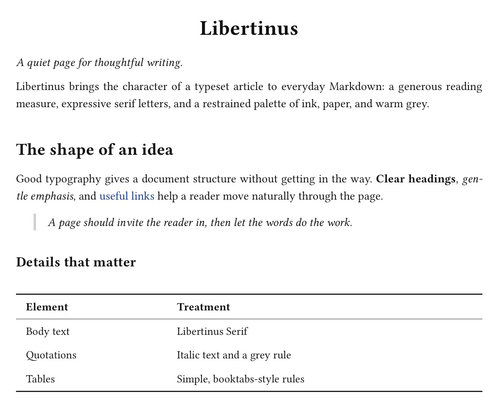
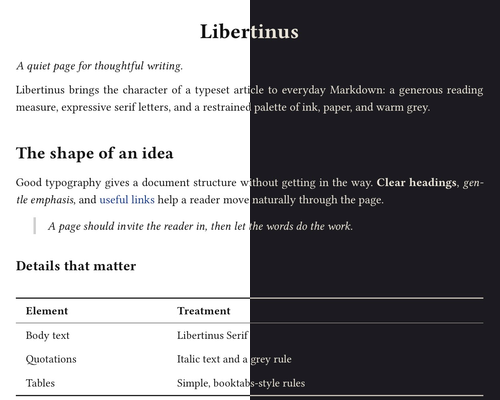
Include Libertinus Dark and Fira Code screenshots

diff --git a/_posts/theme/2026-11-06-Libertinus.md b/_posts/theme/2026-11-06-Libertinus.md
@@ -3,20 +3,20 @@ layout: theme
 title: Libertinus
 category: theme
 homepage: https://github.com/wei-yuhang/typora-theme-libertinus
-download: https://github.com/wei-yuhang/typora-theme-libertinus/releases/download/v1.0.0/libertinus.zip
+download: https://github.com/wei-yuhang/typora-theme-libertinus/releases/download/v1.1.0/libertinus.zip
 built-in: false
 author: Yuhang Wei
 author_url: https://github.com/wei-yuhang
 thumbnail: libertinus.png
-description: A light, serif theme inspired by typeset articles, with Libertinus typography, restrained quotations, and booktabs-style tables.
-tags: [light, serif, academic]
+description: A light and dark serif theme inspired by typeset articles, with Libertinus typography, restrained quotations, and booktabs-style tables.
+tags: [light, dark, serif, academic]
 typora-root-url: ../../
 typora-copy-images-to: ../../media/theme/libertinus
 ---
 
 # Libertinus
 
-Libertinus is a light theme for notes, essays, and technical writing, inspired by the appearance of a Pandoc and XeLaTeX article.
+Libertinus is a light and dark theme for notes, essays, and technical writing, inspired by the appearance of a Pandoc and XeLaTeX article.
 
 ![Libertinus typography, an italic blockquote, and a booktabs-style table](/media/theme/libertinus/typography.png)
 
@@ -25,26 +25,31 @@ Libertinus is a light theme for notes, essays, and technical writing, inspired b
 - Libertinus Serif typography with an A4-inspired, 16 cm reading measure and LaTeX-style headings.
 - Italic blockquotes with a narrow grey border, while quoted code stays upright.
 - Simple tables with booktabs-style horizontal rules.
-- Warm grey code blocks with an editable language selector below the code when the block is focused.
+- Fira Code when installed, with monospace fallbacks. Warm grey or charcoal code blocks with an editable language selector below the code when the block is focused.
 - 思源宋体 (Source Han Serif) for Chinese text when installed, with serif fallbacks.
-- A single CSS file, with no scripts or bundled fonts.
+- Two small CSS files sharing one layout, with no scripts or bundled fonts.
+- A warm charcoal dark variant with matching syntax highlighting, source mode, and sidebar colors. Light print styling; choose Libertinus as the PDF export theme for white page margins.
 
 ![Python code and a displayed equation in Libertinus](/media/theme/libertinus/code-and-math.png)
 
+![Libertinus Dark typography](/media/theme/libertinus/dark-typography.png)
+
+![Fira Code and mathematics in Libertinus Dark](/media/theme/libertinus/dark-code-and-math.png)
+
 ## Installation
 
-1. [Download Libertinus](https://github.com/wei-yuhang/typora-theme-libertinus/releases/download/v1.0.0/libertinus.zip) and unzip it.
+1. [Download Libertinus](https://github.com/wei-yuhang/typora-theme-libertinus/releases/download/v1.1.0/libertinus.zip) and unzip it.
 2. In Typora, open **Preferences → Appearance → Open Theme Folder**.
-3. Copy `libertinus.css` into that folder.
-4. Restart Typora and choose **Themes → Libertinus**.
+3. Copy **both** `libertinus.css` and `libertinus-dark.css` into that folder. Keep them together: the dark variant imports the shared light stylesheet.
+4. Restart Typora and choose **Themes → Libertinus** or **Libertinus Dark**.
 
-For the intended typography, install **Libertinus Serif** and **Libertinus Sans** from the [official font releases](https://github.com/alerque/libertinus/releases). For Chinese text, install **思源宋体 (Source Han Serif)** from [Adobe’s releases](https://github.com/adobe-fonts/source-han-serif/releases). Fonts are not bundled; system fallbacks are used when they are unavailable. See the [README](https://github.com/wei-yuhang/typora-theme-libertinus#fonts) for the full font notes.
+For the intended typography, install **Libertinus Serif** and **Libertinus Sans** from the [official font releases](https://github.com/alerque/libertinus/releases). For Chinese text, install **思源宋体 (Source Han Serif)** from [Adobe’s releases](https://github.com/adobe-fonts/source-han-serif/releases). The screenshots also use [Fira Code](https://github.com/tonsky/FiraCode) for code. Fonts are not bundled; system fallbacks are used when they are unavailable. See the [README](https://github.com/wei-yuhang/typora-theme-libertinus#fonts) for the full font notes.
 
 ## Compatibility
 
-Used long-term on **Windows** by the author, and checked in **Typora 1.14.15 on macOS**, including the latest layout changes and PDF export. **Linux has not been tested.**
+The original light theme has been used long-term on **Windows** by the author. Both variants have been checked in **Typora 1.14.15 on macOS**, including code, math, source mode, sidebar layout, and PDF export. The new dark variant still needs Windows verification. **Linux has not been tested.**
 
-Libertinus is a light theme with no separate dark variant. Math rendering and PDF page size and margins follow Typora’s settings.
+For white PDF page margins while editing in dark mode, choose **Libertinus** in **Settings → Export → PDF → Theme**. Math rendering and PDF page size and margins follow Typora’s settings.
 
 ## License
 
